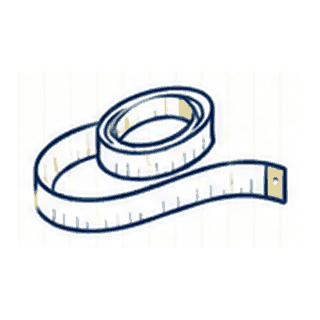
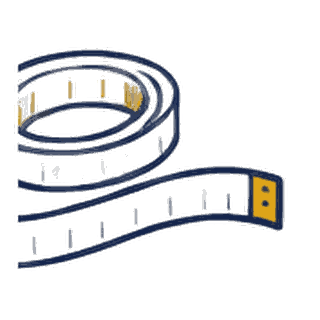
アイコンを背景透過版に差し替え、掲載箇所を拡大
- 背景透過で再書き出しされたイラストシートから抜き出し直し、既存7アイコン(採寸テープ/Web制作/映像制作/企画・構成/アイデア・提案/システム開発/信頼とパートナーシップ)を白背景なしの版に差し替え
- 悩み訴求カード(3件)：Web制作／SNSコンテンツ／料金のイラストに変更
- 制作の流れ(6ステップ)：各ステップにアイコンを追加(お問い合わせ/ヒアリング/お見積もり/制作/確認・修正/納品)
- お問い合わせページ：カード上部にアイコン、対応エリアの行に地球アイコンを追加

配色・フォント・セクション構成・本文コピーは変更なし。

Changed region(s): [[0.0312, 0.125, 0.9062, 0.8438]]

diff --git a/index.html b/index.html
@@ -240,10 +240,9 @@
     border-radius: var(--radius); padding: clamp(20px, 3.2vw, 28px); box-shadow: var(--shadow);
   }
   .worry-card__icon {
-    width: 44px; height: 44px; display: grid; place-content: center;
-    border-radius: 8px; background: var(--yellow); color: var(--navy); margin-bottom: 0.9rem;
+    width: 3.4rem; height: 3.4rem; margin-bottom: 0.9rem;
   }
-  .worry-card__icon svg { width: 24px; height: 24px; }
+  .worry-card__icon img { width: 100%; height: 100%; object-fit: contain; }
   .worry-card p { font-size: 0.95rem; line-height: 1.8; }
 
   /* ---------- Page menu ---------- */
@@ -297,6 +296,8 @@
     background: var(--white); border: 1px solid var(--line); border-radius: var(--radius);
     padding: clamp(16px, 2.6vw, 22px) clamp(18px, 3vw, 26px); box-shadow: var(--shadow);
   }
+  .flow-step__lead { display: flex; flex-direction: column; align-items: center; gap: 0.5rem; }
+  .flow-step__icon { width: 40px; height: 40px; object-fit: contain; }
   .flow-step__n {
     width: 2rem; height: 2rem; display: grid; place-content: center;
     background: var(--yellow); color: var(--navy); border-radius: 8px; font-weight: 700; font-size: 0.9rem;
@@ -407,6 +408,8 @@
     background: var(--white); border: 2px solid var(--yellow); border-radius: 12px;
     padding: clamp(30px, 6vw, 52px); text-align: center; max-width: 40em; margin-inline: auto;
   }
+  .contact-card__icon { width: 56px; height: 56px; object-fit: contain; margin: 0 auto 1rem; display: block; }
+  .contact-info__icon { width: 16px; height: 16px; object-fit: contain; vertical-align: -3px; margin-right: 0.3rem; }
   .contact-card h2 { font-size: clamp(1.35rem, 4vw, 1.8rem); }
   .contact-card p { margin-top: 0.8rem; color: var(--navy-soft); font-size: 0.95rem; }
   .contact-card__actions { margin-top: 1.7rem; display: flex; flex-wrap: wrap; gap: 0.9rem; justify-content: center; }
@@ -565,15 +568,15 @@
         </div>
         <div class="worry-grid">
           <div class="worry-card reveal">
-            <div class="worry-card__icon"><svg viewBox="0 0 24 24" fill="none" stroke="currentColor" stroke-width="1.7" stroke-linecap="round"><rect x="3" y="4" width="18" height="13" rx="2"/><path d="M9 21h6M12 17v4"/><path d="M8 8.5l3 3M11 8.5l-3 3"/></svg></div>
+            <div class="worry-card__icon"><img src="images/icon-web-dev.png" alt="" width="160" height="160"></div>
             <p>ホームページが古い、そもそも無い</p>
           </div>
           <div class="worry-card reveal">
-            <div class="worry-card__icon"><svg viewBox="0 0 24 24" fill="none" stroke="currentColor" stroke-width="1.7" stroke-linecap="round" stroke-linejoin="round"><rect x="3" y="7" width="18" height="13" rx="2"/><circle cx="12" cy="13.5" r="3.4"/><path d="M8.5 7l1.3-2.2h4.4L15.5 7"/></svg></div>
+            <div class="worry-card__icon"><img src="images/icon-sns-content.png" alt="" width="160" height="160"></div>
             <p>魅力が伝わる写真・動画がなく、SNS発信が弱い</p>
           </div>
           <div class="worry-card reveal">
-            <div class="worry-card__icon"><svg viewBox="0 0 24 24" fill="none" stroke="currentColor" stroke-width="1.7" stroke-linecap="round" stroke-linejoin="round"><circle cx="12" cy="13.5" r="7.5"/><path d="M12 13.5V9M10 3h4M18.5 6l1.4-1.4"/><path d="M12 13.5l3 2"/></svg></div>
+            <div class="worry-card__icon"><img src="images/icon-pricing.png" alt="" width="160" height="160"></div>
             <p>制作会社は高額で、スピード感のある対応が難しい</p>
           </div>
         </div>
@@ -652,12 +655,12 @@
           <p class="section__lead">はじめてでも迷わないよう、順番にご案内します。</p>
         </div>
         <ol class="flow-steps">
-          <li class="flow-step reveal"><span class="flow-step__n">1</span><div><h3>お問い合わせ</h3><p>フォームからご連絡ください。段階は問いません。</p></div></li>
-          <li class="flow-step reveal"><span class="flow-step__n">2</span><div><h3>ヒアリング（オンライン可）</h3><p>30〜45分ほど。ご要望とご予算をお聞きします。</p></div></li>
-          <li class="flow-step reveal"><span class="flow-step__n">3</span><div><h3>ご提案・お見積もり</h3><p>方向性と、範囲・金額・スケジュールを一式でご提示します。</p></div></li>
-          <li class="flow-step reveal"><span class="flow-step__n">4</span><div><h3>制作</h3><p>途中でたたき台を見ていただきながら進めます。</p></div></li>
-          <li class="flow-step reveal"><span class="flow-step__n">5</span><div><h3>ご確認・修正</h3><p>仕上がりを見てから調整します。</p></div></li>
-          <li class="flow-step reveal"><span class="flow-step__n">6</span><div><h3>納品・公開</h3><p>HPは公開まで対応。動画・写真はデータでお渡しします。</p></div></li>
+          <li class="flow-step reveal"><div class="flow-step__lead"><img class="flow-step__icon" src="images/icon-contact.png" alt="" width="40" height="40"><span class="flow-step__n">1</span></div><div><h3>お問い合わせ</h3><p>フォームからご連絡ください。段階は問いません。</p></div></li>
+          <li class="flow-step reveal"><div class="flow-step__lead"><img class="flow-step__icon" src="images/icon-trust-partnership.png" alt="" width="40" height="40"><span class="flow-step__n">2</span></div><div><h3>ヒアリング（オンライン可）</h3><p>30〜45分ほど。ご要望とご予算をお聞きします。</p></div></li>
+          <li class="flow-step reveal"><div class="flow-step__lead"><img class="flow-step__icon" src="images/icon-pricing.png" alt="" width="40" height="40"><span class="flow-step__n">3</span></div><div><h3>ご提案・お見積もり</h3><p>方向性と、範囲・金額・スケジュールを一式でご提示します。</p></div></li>
+          <li class="flow-step reveal"><div class="flow-step__lead"><img class="flow-step__icon" src="images/icon-pattern-design.png" alt="" width="40" height="40"><span class="flow-step__n">4</span></div><div><h3>制作</h3><p>途中でたたき台を見ていただきながら進めます。</p></div></li>
+          <li class="flow-step reveal"><div class="flow-step__lead"><img class="flow-step__icon" src="images/icon-needle-thread.png" alt="" width="40" height="40"><span class="flow-step__n">5</span></div><div><h3>ご確認・修正</h3><p>仕上がりを見てから調整します。</p></div></li>
+          <li class="flow-step reveal"><div class="flow-step__lead"><img class="flow-step__icon" src="images/icon-scissors.png" alt="" width="40" height="40"><span class="flow-step__n">6</span></div><div><h3>納品・公開</h3><p>HPは公開まで対応。動画・写真はデータでお渡しします。</p></div></li>
         </ol>
         <p class="flow-note reveal">稼働は平日の夜・土日祝が中心です。</p>
       </div>
@@ -816,6 +819,7 @@
           <h2 class="section__title">お問い合わせ</h2>
         </div>
         <div class="contact-card reveal">
+          <img class="contact-card__icon" src="images/icon-contact.png" alt="" width="160" height="160">
           <h2>まずは無料でご相談ください</h2>
           <p>「うちでもできる？」の段階でOK。初回のご相談・お見積もりは無料です。</p>
           <div class="contact-card__actions">
@@ -823,7 +827,7 @@
             <a class="ig-btn" data-ig href="https://www.instagram.com/[Instagramユーザーネーム]" target="_blank" rel="noopener" aria-label="Instagram"><svg viewBox="0 0 24 24" fill="none" stroke="currentColor" stroke-width="1.8" aria-hidden="true"><rect x="3" y="3" width="18" height="18" rx="5"/><circle cx="12" cy="12" r="4"/><circle cx="17.3" cy="6.7" r="1.1" fill="currentColor" stroke="none"/></svg></a>
           </div>
           <p class="contact-info">
-            対応エリア：東京23区が中心。ホームページ制作はオンラインで全国対応。<br>
+            <img class="contact-info__icon" src="images/icon-domestic-overseas.png" alt="">対応エリア：東京23区が中心。ホームページ制作はオンラインで全国対応。<br>
             稼働：平日の夜・土日祝が中心です。
           </p>
         </div>
